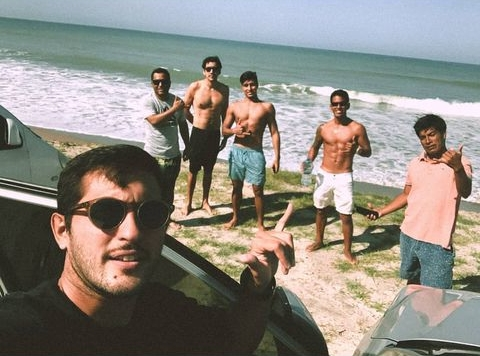
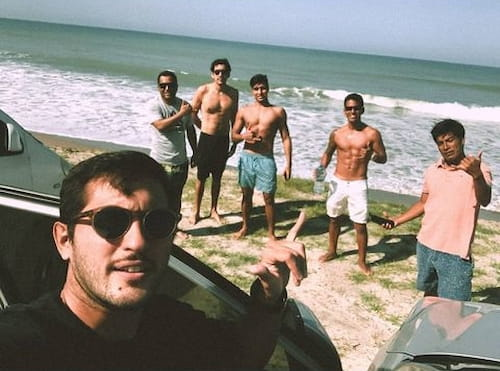
Optimize images

diff --git a/src/app/[locale]/Sections/Achievements/Cards/PaperRAP.tsx b/src/app/[locale]/Sections/Achievements/Cards/PaperRAP.tsx
@@ -2,7 +2,7 @@ import { FontAwesomeIcon } from "@fortawesome/react-fontawesome";
 import { faNewspaper } from "@fortawesome/free-solid-svg-icons";
 import { useTranslations } from "next-intl";
 
-import rapSTTPaperPreview from "@/../public/images/achievements/rap-stt-paper-preview.png";
+import rapSTTPaperPreview from "@/../public/images/achievements/rap-stt-paper-preview.jpg";
 import { PrimaryButton } from "@/app/[locale]/shared/Buttons/Primary";
 import { Link } from "@/i18n/routing";
 import { Card } from "./Card";
@@ -19,8 +19,8 @@ const PaperRAP = () => {
       startDate={new Date(2024, 4, 1)}
       imgUrl={rapSTTPaperPreview.src}
       subTitle={t("Paper")}
-      imgHeight={200}
-      imgWidth={200}
+      imgHeight={300}
+      imgWidth={220}
     >
       <Link href="/docs/rap-stt-paper.pdf" rel="noreferrer" target="_blank">
         <PrimaryButton>

diff --git a/src/app/[locale]/Sections/Projects/Cards/NightlyTunes.tsx b/src/app/[locale]/Sections/Projects/Cards/NightlyTunes.tsx
@@ -1,7 +1,7 @@
 import { useTranslations } from "next-intl";
 
-import nightlyTunesLightBanner from "@/../public/images/projects/nightly-tunes-light-banner.png";
-import nightlyTunesDarkBanner from "@/../public/images/projects/nightly-tunes-dark-banner.png";
+import nightlyTunesLightBanner from "@/../public/images/projects/nightly-tunes-light-banner.jpg";
+import nightlyTunesDarkBanner from "@/../public/images/projects/nightly-tunes-dark-banner.jpg";
 import { React as ReactIcon } from "@/app/[locale]/shared/Icons/React";
 import { ReactRouter } from "@/app/[locale]/shared/Icons/ReactRouter";
 import { JavaScript } from "@/app/[locale]/shared/Icons/JavaScript";

diff --git a/src/app/[locale]/Sections/Projects/Cards/NameGenius.tsx b/src/app/[locale]/Sections/Projects/Cards/NameGenius.tsx
@@ -1,7 +1,7 @@
 import { useTranslations } from "next-intl";
 
-import nameGeniusLightBanner from "@/../public/images/projects/namegenius-light-banner.png";
-import nameGeniusDarkBanner from "@/../public/images/projects/namegenius-dark-banner.png";
+import nameGeniusLightBanner from "@/../public/images/projects/namegenius-light-banner.jpg";
+import nameGeniusDarkBanner from "@/../public/images/projects/namegenius-dark-banner.jpg";
 import { React as ReactIcon } from "@/app/[locale]/shared/Icons/React";
 import { Redux as ReduxIcon } from "@/app/[locale]/shared/Icons/Redux";
 import { TypeScript } from "@/app/[locale]/shared/Icons/TypeScript";

diff --git a/src/app/[locale]/Sections/Projects/Cards/MIProjectManager.tsx b/src/app/[locale]/Sections/Projects/Cards/MIProjectManager.tsx
@@ -1,6 +1,6 @@
 import { useTranslations } from "next-intl";
 
-import mIProjectManagerBanner from "@/../public/images/projects/mi-project-manager-banner.png";
+import mIProjectManagerBanner from "@/../public/images/projects/mi-project-manager-banner.jpg";
 import { React as ReactIcon } from "@/app/[locale]/shared/Icons/React";
 import { Redux as ReduxIcon } from "@/app/[locale]/shared/Icons/Redux";
 import { TailwindCss } from "@/app/[locale]/shared/Icons/TailwindCss";

diff --git a/src/app/[locale]/Sections/Hero.tsx b/src/app/[locale]/Sections/Hero.tsx
@@ -5,7 +5,7 @@ import { useTranslations } from "next-intl";
 import Image from "next/image";
 
 import { PrimaryButton } from "../shared/Buttons/Primary";
-import profile from "@/../public/images/profile.jpeg";
+import profile from "@/../public/images/profile.jpg";
 import { MotionDiv } from "../shared/Motion/Div";
 import { DotLottie } from "../shared/DotLottie";
 import { animaticSCBold } from "@/shared/fonts";

diff --git a/src/app/[locale]/Sections/Experience/Cards/Card.tsx b/src/app/[locale]/Sections/Experience/Cards/Card.tsx
@@ -91,7 +91,7 @@ const Card = ({
                 className="object-contain"
                 src={enterpriseImgUrl}
                 alt={enterpriseImgAlt}
-                height={200}
+                height={150}
                 width={150}
               />
             </Link>

diff --git a/src/app/[locale]/Sections/Projects/Cards/Card.tsx b/src/app/[locale]/Sections/Projects/Cards/Card.tsx
@@ -50,7 +50,7 @@ const Card = ({
             src={imgUrl}
             alt={imgAlt}
             height={300}
-            width={500}
+            width={400}
           />
         </Link>
       </MotionDiv>
